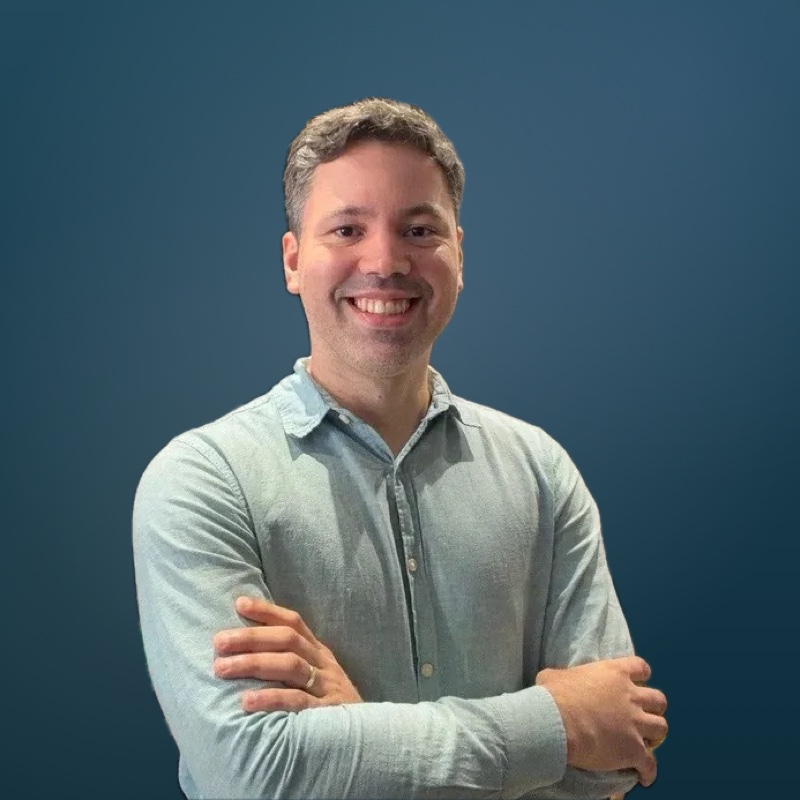
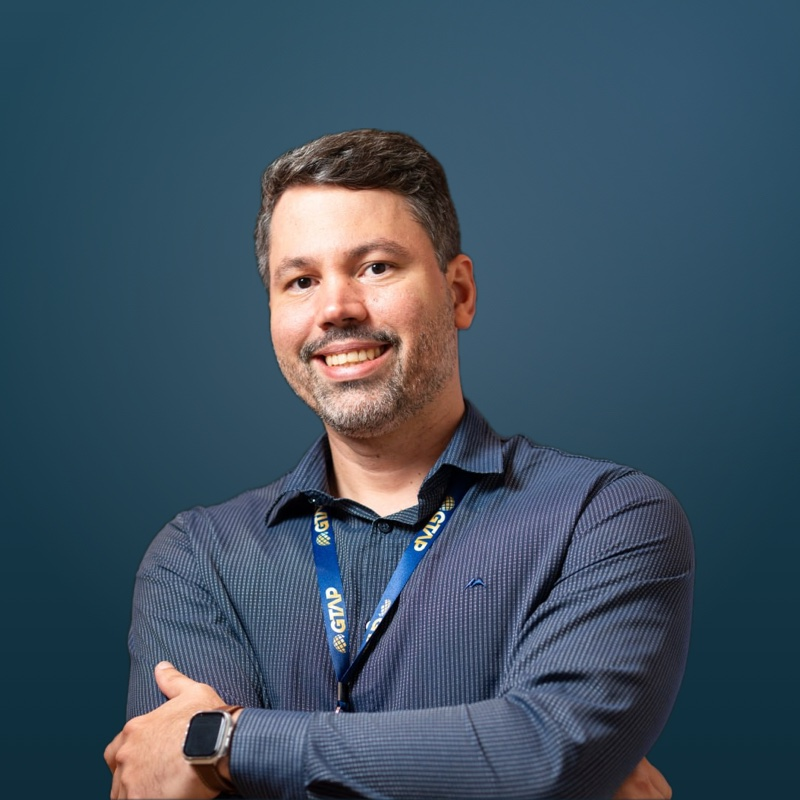
Troca as fotos de Gileard e Soraya
Fotos novas no mesmo padrão das demais: recorte da pessoa sobre o fundo
petróleo da marca e enquadramento até o peito.

diff --git a/index.html b/index.html
@@ -406,7 +406,7 @@
       <article class="team-card">
         <p class="team-fase">Antes do código</p>
         <div class="team-photo">
-          <img src="img/equipe/gileard.jpg?v=1" width="800" height="800" alt="Gileard Teixeira" loading="lazy">
+          <img src="img/equipe/gileard.jpg?v=2" width="800" height="800" alt="Gileard Teixeira" loading="lazy">
         </div>
         <div class="team-caption">
           <span class="role-tag">Sócio</span>
@@ -465,7 +465,7 @@
       <article class="team-card">
         <p class="team-fase">Durante a relação</p>
         <div class="team-photo">
-          <img src="img/equipe/soraya.jpg?v=1" width="800" height="800" alt="Soraya Sá" loading="lazy">
+          <img src="img/equipe/soraya.jpg?v=2" width="800" height="800" alt="Soraya Sá" loading="lazy">
         </div>
         <div class="team-caption">
           <span class="role-tag">Sócia</span>
